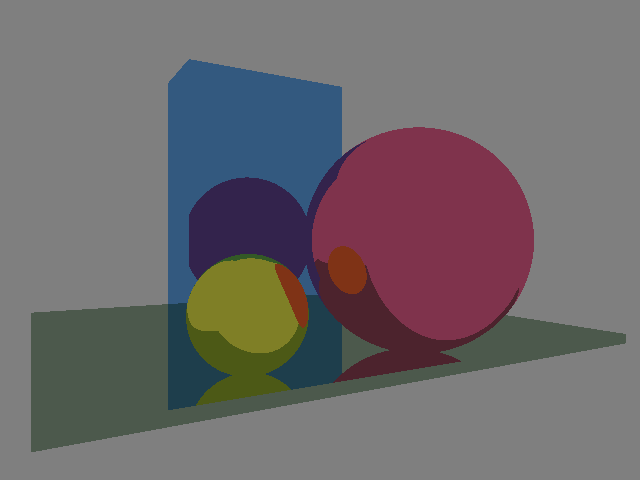
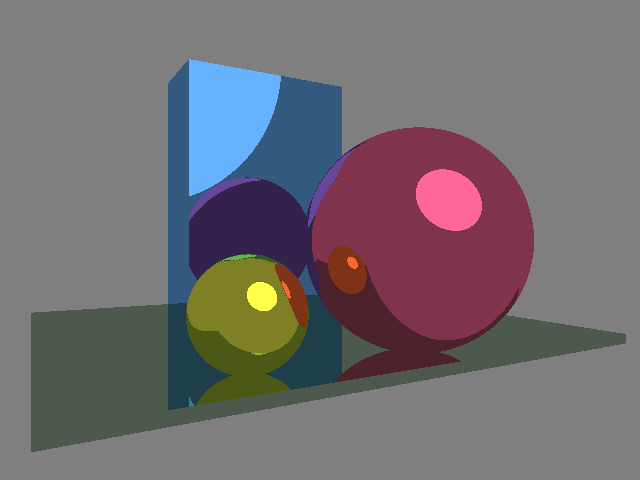
luminous objects

diff --git a/tiny.py b/tiny.py
@@ -20,18 +20,19 @@ def sphere_intersect(center, radius, ray_origin, ray_direction):
 
 def scene_intersect(ray_origin, ray_direction):
     nearest = np.inf                             # the (squared) distance from the ray origin to the nearest point in the scene
-    point,normal,color = None,None,None # the information about the intersection point we want to return
-    for o in [ {'center': np.array([  6,   0,  7]), 'radius':  2, 'color': np.array([1., .4, .6])}, # description of the scene:
-               {'center': np.array([2.8, 1.1,  7]), 'radius': .9, 'color': np.array([1., 1., .3])}, # two spheres and two boxes
-               {'min': np.array([3, -4, 11]), 'max': np.array([ 7,   2, 13]), 'color': np.array([.4, .7, 1.])},
-               {'min': np.array([0,  2,  6]), 'max': np.array([11, 2.2, 16]), 'color': np.array([.6, .7, .6])} ]:
+    point,normal,color,hot = None,None,None,None # the information about the intersection point we want to return
+    for o in [ {'center': np.array([  6,   0,  7]), 'radius':  2, 'color': np.array([1., .4, .6]), 'hot': False}, # description of the scene:
+               {'center': np.array([2.8, 1.1,  7]), 'radius': .9, 'color': np.array([1., 1., .3]), 'hot': False}, # three spheres and two boxes
+               {'center': np.array([  5, -10, -7]), 'radius':  8, 'color': np.array([1., 1., 1.]), 'hot': True},  # one of the spheres is "hot" (incandescent)
+               {'min': np.array([3, -4, 11]), 'max': np.array([ 7,   2, 13]), 'color': np.array([.4, .7, 1.]), 'hot': False},
+               {'min': np.array([0,  2,  6]), 'max': np.array([11, 2.2, 16]), 'color': np.array([.6, .7, .6]), 'hot': False} ]:
         if 'center' in o: # is it a sphere or a box?
             hit,p,n = sphere_intersect(o['center'], o['radius'], ray_origin, ray_direction)
         else:
             hit,p,n = box_intersect(o['min'], o['max'], ray_origin, ray_direction)
         if hit and (d2:=np.dot(p-ray_origin, p-ray_origin))<nearest: # we have encountered the closest point so far
-            nearest,point,normal,color = d2,p,n,o['color']
-    return nearest<np.inf, point, normal, color # hit or not, intersection point, normal at the point, color of the object
+            nearest,point,normal,color,hot = d2,p,n,o['color'],o['hot']
+    return nearest<np.inf, point, normal, color, hot # hit or not, intersection point, normal at the point, color of the object, hot or not
 
 def normalized(vector):
     return vector / np.linalg.norm(vector)
@@ -40,7 +41,8 @@ def reflect(vector, normal): # the 6. coefficient encodes surface roughness (the
     return normalized(vector - 2*np.dot(vector, normal)*normal)
 
 def trace(eye, ray, depth):
-    hit,point,normal,color = scene_intersect(eye, ray)             # find closest point along the ray
+    hit,point,normal,color,hot = scene_intersect(eye, ray)         # find closest point along the ray
+    if hot: return color                                           # no reflection from hot objects
     if hit and depth+1<maxdepth:
         return color * trace(point, reflect(ray, normal), depth+1) # accumulate color along the reflected ray
     return ambient_color                                           # no intersection or too many reflections -> ambient color
